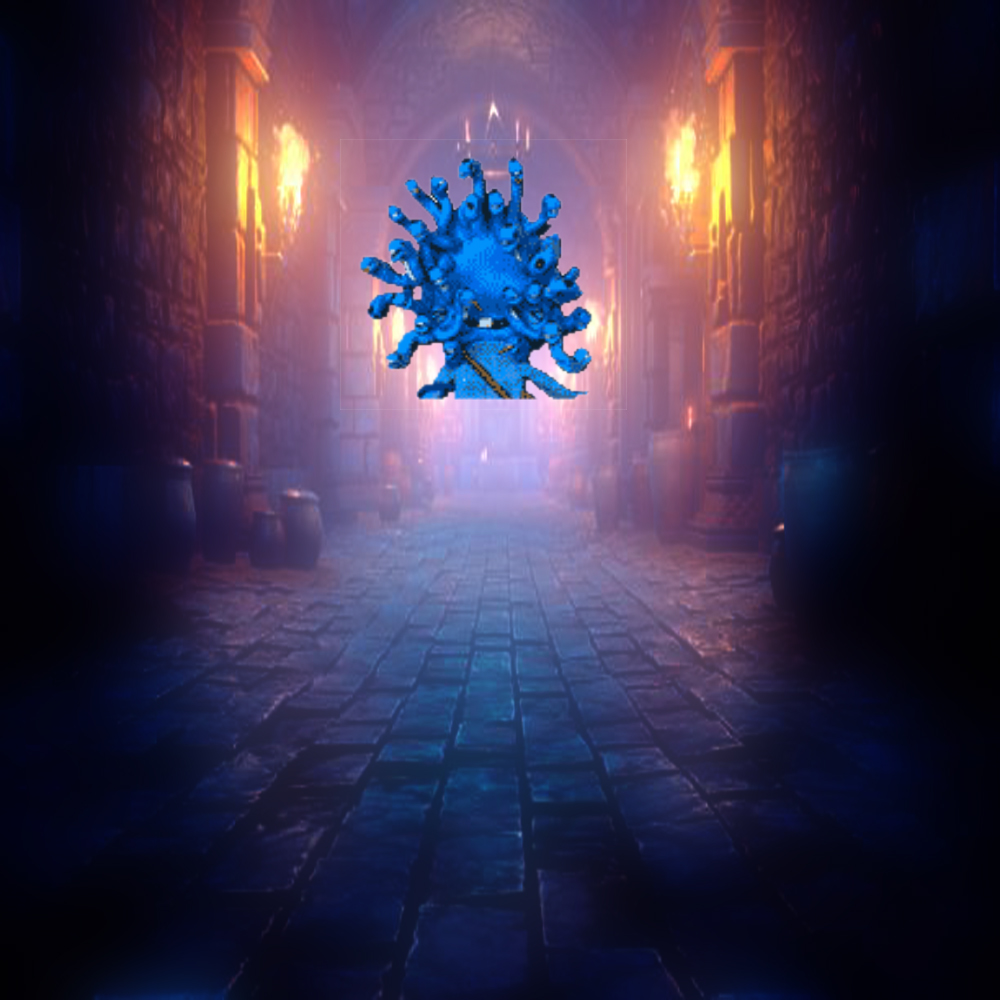
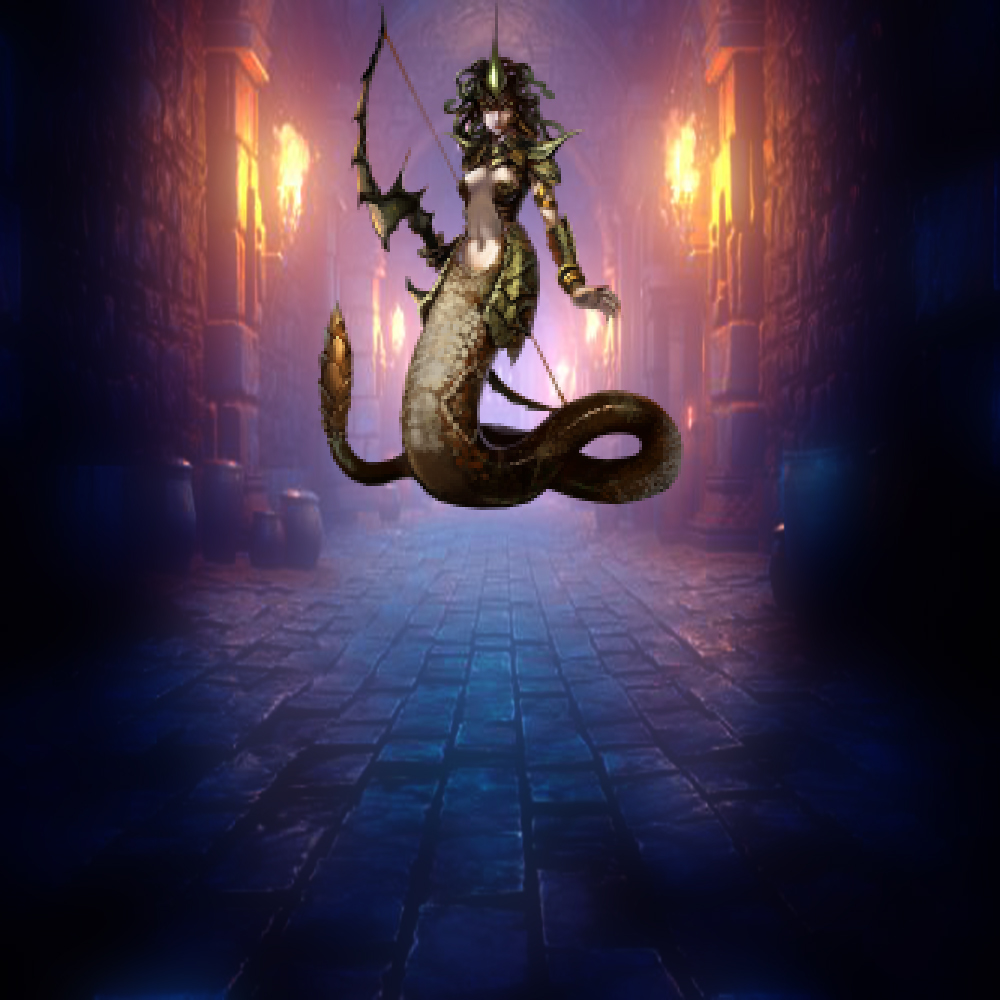
Refactor Fight View

Changed region(s): [[0.31, 0.031, 0.682, 0.527], [0.372, 0.0, 0.403, 0.062]]

diff --git a/src/main/java/com/codecool/dungeoncrawl/game/controller/FightController.java b/src/main/java/com/codecool/dungeoncrawl/game/controller/FightController.java
@@ -1,0 +1,203 @@
+package com.codecool.dungeoncrawl.game.controller;
+
+import com.codecool.dungeoncrawl.Main;
+import com.codecool.dungeoncrawl.game.creatures.*;
+import com.codecool.dungeoncrawl.game.map.GameMap;
+import com.codecool.dungeoncrawl.game.utils.Utils;
+import javafx.fxml.FXML;
+import javafx.scene.control.Label;
+import javafx.scene.control.TextArea;
+import javafx.scene.image.Image;
+import javafx.scene.image.ImageView;
+import javafx.scene.layout.*;
+
+import static com.codecool.dungeoncrawl.game.controller.GameController.monstersMoving;
+import static com.codecool.dungeoncrawl.game.music.MusicPlayer.stopSounds;
+
+public class FightController {
+
+    @FXML
+    private ImageView buttonAbility;
+
+    @FXML
+    private ImageView buttonAttack;
+
+    @FXML
+    private ImageView buttonBlock;
+
+    @FXML
+    private ImageView buttonHeal;
+
+    @FXML
+    private VBox fightWindow;
+
+    @FXML
+    private Label monsterHealth;
+
+    @FXML
+    private TextArea output;
+
+    @FXML
+    private Label playerHealth;
+
+    public static Player player;
+    public static Monster monster;
+    public static boolean isFightAvailable = false;
+
+    @FXML
+    void initialize() {
+        stopSounds();
+        stopAllMonstersMoving();
+
+        initEnemyGraphics();
+
+        initButtonGraphics();
+        initBattleButtons();
+
+        updateStats();
+    }
+
+    public void updateStats() {
+        updatePlayerStats();
+        updateMonsterStats();
+    }
+
+    private void updateMonsterStats() {
+        monsterHealth.setText(monster.getTileName() + " HP: " + monster.getHealth());
+    }
+
+    private void updatePlayerStats() {
+        playerHealth.setText(NameController.userName + " HP: " + player.getHealth());
+    }
+
+    private void initButtonGraphics() {
+        buttonAttack.setImage(new Image(Main.class.getResourceAsStream("/com/codecool/dungeoncrawl/img/atk-btn.png")));
+        buttonAttack.setOnMouseEntered(t -> buttonAttack.setImage(new Image(Main.class.getResourceAsStream("/com/codecool/dungeoncrawl/img/atk-btn-hover.png"))));
+        buttonAttack.setOnMouseExited(t -> buttonAttack.setImage(new Image(Main.class.getResourceAsStream("/com/codecool/dungeoncrawl/img/atk-btn.png"))));
+
+        buttonBlock.setImage(new Image(Main.class.getResourceAsStream("/com/codecool/dungeoncrawl/img/block-btn.png")));
+        buttonBlock.setOnMouseEntered(t -> buttonBlock.setImage(new Image(Main.class.getResourceAsStream("/com/codecool/dungeoncrawl/img/block-btn-hover.png"))));
+        buttonBlock.setOnMouseExited(t -> buttonBlock.setImage(new Image(Main.class.getResourceAsStream("/com/codecool/dungeoncrawl/img/block-btn.png"))));
+
+        buttonAbility.setImage(new Image(Main.class.getResourceAsStream("/com/codecool/dungeoncrawl/img/ability-btn.png")));
+        buttonAbility.setOnMouseEntered(t -> buttonAbility.setImage(new Image(Main.class.getResourceAsStream("/com/codecool/dungeoncrawl/img/ability-btn-hover.png"))));
+        buttonAbility.setOnMouseExited(t -> buttonAbility.setImage(new Image(Main.class.getResourceAsStream("/com/codecool/dungeoncrawl/img/ability-btn.png"))));
+
+        buttonHeal.setImage(new Image(Main.class.getResourceAsStream("/com/codecool/dungeoncrawl/img/heal-btn.png")));
+        buttonHeal.setOnMouseEntered(t -> buttonHeal.setImage(new Image(Main.class.getResourceAsStream("/com/codecool/dungeoncrawl/img/heal-btn-hover.png"))));
+        buttonHeal.setOnMouseExited(t -> buttonHeal.setImage(new Image(Main.class.getResourceAsStream("/com/codecool/dungeoncrawl/img/heal-btn.png"))));
+
+    }
+
+    private static void stopAllMonstersMoving() {
+        monstersMoving.stop();
+    }
+
+    private void initBattleButtons() {
+        buttonAttack.setOnMouseClicked(e -> makeMove(Action.ATTACK, player, monster));
+        buttonBlock.setOnMouseClicked(e -> makeMove(Action.BLOCK, player, monster));
+        if (player.getMana() >= 40){
+            buttonAbility.setOnMouseClicked(e -> makeMove(Action.ABILITY, player, monster));
+        } else {
+            buttonAbility.setOnMouseClicked(e -> output.appendText("You dont have enough mana \n"));
+        }
+    }
+
+    private void initEnemyGraphics() {
+        if (monster instanceof Vampire) {
+            fightWindow.setBackground(new Background(new BackgroundImage(new Image("/com/codecool/dungeoncrawl/img/fight-view-vampire.jpg"),
+                    BackgroundRepeat.NO_REPEAT,
+                    BackgroundRepeat.NO_REPEAT,
+                    BackgroundPosition.DEFAULT,
+                    BackgroundSize.DEFAULT)));
+        } else if (monster instanceof Medusa) {
+            fightWindow.setBackground(new Background(new BackgroundImage(new Image("/com/codecool/dungeoncrawl/img/fight-view-medusa.jpg"),
+                    BackgroundRepeat.NO_REPEAT,
+                    BackgroundRepeat.NO_REPEAT,
+                    BackgroundPosition.DEFAULT,
+                    BackgroundSize.DEFAULT)));
+        } else if (monster instanceof Skeleton) {
+            fightWindow.setBackground(new Background(new BackgroundImage(new Image("/com/codecool/dungeoncrawl/img/fight-view-skeleton.jpg"),
+                    BackgroundRepeat.NO_REPEAT,
+                    BackgroundRepeat.NO_REPEAT,
+                    BackgroundPosition.DEFAULT,
+                    BackgroundSize.DEFAULT)));
+        } else if (monster instanceof FinalBoss) {
+            fightWindow.setBackground(new Background(new BackgroundImage(new Image("/com/codecool/dungeoncrawl/img/fight-view-boss.jpg"),
+                    BackgroundRepeat.NO_REPEAT,
+                    BackgroundRepeat.NO_REPEAT,
+                    BackgroundPosition.DEFAULT,
+                    BackgroundSize.DEFAULT)));
+        } else {
+            fightWindow.setBackground(new Background(new BackgroundImage(new Image("/com/codecool/dungeoncrawl/img/fight-view.jpg"),
+                    BackgroundRepeat.NO_REPEAT,
+                    BackgroundRepeat.NO_REPEAT,
+                    BackgroundPosition.DEFAULT,
+                    BackgroundSize.DEFAULT)));
+        }
+    }
+
+    private void makeMove(Action userAction, Player player, Monster monster) {
+        Action monsterAction = makeMonsterMove();
+        Action.ActionResult result = userAction.checkAgainst(monsterAction);
+        fightTurn(userAction, player, monster, monsterAction, result);
+        checkBattleResult(player, monster);
+        updateStats();
+    }
+
+    private void fightTurn(Action userAction, Player player, Monster monster, Action monsterAction, Action.ActionResult result) {
+        if (result == Action.ActionResult.DRAW) {
+            output.appendText("DRAW\n");
+        } else if (result == Action.ActionResult.WIN) {
+            dealDamageToMonster(userAction, player, monster);
+        } else { // LOSE
+            dealDamageToPlayer(player, monster, monsterAction);
+        }
+        regenerateMana(player);
+    }
+
+    private static void regenerateMana(Player player) {
+        if (player.getMana() < 100){
+            player.setMana(player.getMana() + 10);
+        }
+    }
+
+    private void dealDamageToPlayer(Player player, Monster monster, Action monsterAction) {
+        int dmg = monster.calcDamage(monsterAction);
+        player.setHealth(player.getHealth() - dmg);
+        output.appendText(String.format(("%s deals %s to %s \n"), monster.getTileName(), dmg, NameController.userName));
+    }
+
+    private void dealDamageToMonster(Action userAction, Player player, Monster monster) {
+        int dmg = player.calcDamage(userAction);
+        if (userAction == Action.ABILITY) {
+            player.setMana(player.getMana() - 40);
+        }
+        monster.setHealth(monster.getHealth() - dmg);
+        output.appendText(String.format(("%s deals %s to %s \n"), NameController.userName, dmg, monster.getTileName()));
+    }
+
+    private void checkBattleResult(Player player, Monster monster) {
+        if (monster.getHealth() <= 0) {
+            playerWin(monster);
+        } else if (player.getHealth() <= 0){
+            monsterWin();
+        }
+    }
+
+    private void playerWin(Monster monster) {
+        player.setExp(player.getExp() + monster.getExp());
+        monster.getCreature().getCell().setCreature(null);
+        GameMap.removeMonster(monster);
+        ViewController.setGameView();
+    }
+
+    private void monsterWin() {
+        ViewController.setEndView();
+    }
+
+    private Action makeMonsterMove() {
+        return Action.values()[(int) (Utils.RANDOM.nextInt(0, Action.values().length))];
+    }
+
+}
